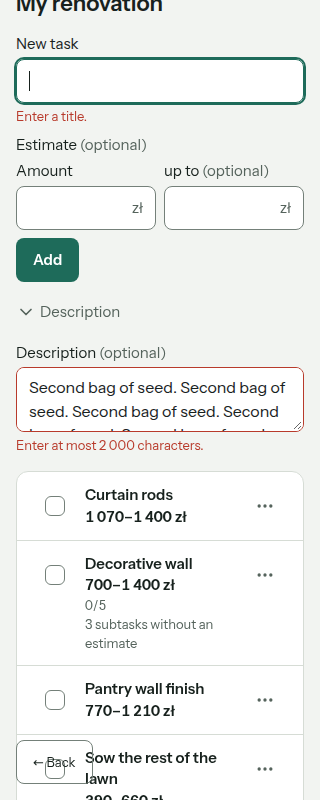
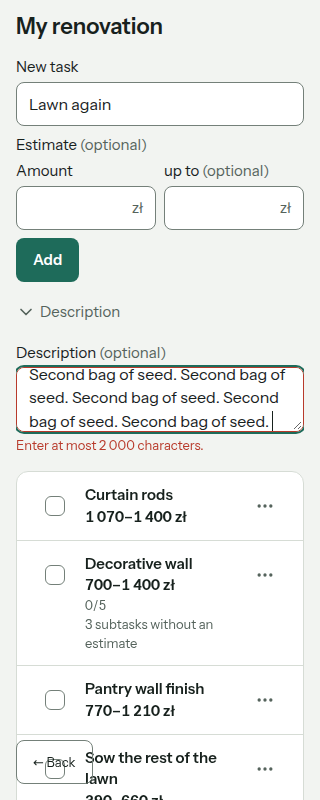
fix(prototype): use the sample validation, withdraw DS08
The design system's sample validation now checks the description limit
(PR #37), so the prototype's own check goes. DS08 (focus after a closed
description error) was a false alarm from setting the value by script
in the walk; withdrawn in the map and POSTEP.md, with a typed re-walk of
s04.33 and a corrected lesson.

diff --git a/prototypes/task-list-v1/src/screens/task-screen.tsx b/prototypes/task-list-v1/src/screens/task-screen.tsx
@@ -54,17 +54,6 @@ const titleOf = (list: TaskItem[], id: string): string => {
   return "";
 };
 
-/**
- * The design system's sample validation plus the spec's 2 000-character description limit
- * (`taskFields`), which the sample leaves out; s04.33 needs it to be reachable.
- */
-const validate = (values: TaskFormValues) => ({
-  ...validateTask(values),
-  ...(values.description.trim().length > 2000
-    ? { description: taskMessages.descriptionTooLong }
-    : {}),
-});
-
 /** The top-level task that holds subtask `id`, if it is one. */
 const parentOf = (list: TaskItem[], id: string) =>
   list.find((item) => item.subtasks?.some((subtask) => subtask.id === id));
@@ -454,7 +443,7 @@ export function TaskScreen({
             <>
               {phase === "page" ? null : (
                 <QuickAdd
-                  validate={validate}
+                  validate={validateTask}
                   onSubmit={(values) => add(null, values)}
                   text={emptyText}
                 />
@@ -466,7 +455,7 @@ export function TaskScreen({
                 tasks={forDisplay(account.tasks.map(rollUp))}
                 onRetry={() => void retryList()}
                 retrying={retrying}
-                validate={validate}
+                validate={validateTask}
                 onEdit={edit}
                 onAddSubtask={(parentId, values) => add(parentId, values)}
                 onDelete={remove}

diff --git a/prototypes/task-list-v1/POSTEP.md b/prototypes/task-list-v1/POSTEP.md
@@ -271,7 +271,7 @@ Krok 4 zadania z 2026-10-28 (log: `.ai/runs/2026-10-28-e01-subtask-rollup-alignm
   - pierwsze podzadanie zadania z wpisaną kwotą i usunięcie ostatniego podzadania wpisują komunikat do wiersza (s07.9, s07.10, s08.8); każda następna zmiana go czyści;
   - edycja zadania z podzadaniami zachowuje jego własną kwotę (R15);
   - P09 „zadanie dostało podzadanie w innej karcie”: 409 przy zapisie zmienionej kwoty, lista dostaje podzadanie „Bathroom” bez szacunku (s06.12);
-  - walidacja: próbka DS (`validateTask`) plus limit opisu 2000 znaków ze specyfikacji, bez którego s04.33 był nieosiągalny.
+  - walidacja: próbka DS (`validateTask`); brakował w niej limit opisu 2000 znaków ze specyfikacji, bez którego s04.33 był nieosiągalny, więc dopisałem go w DS (PR #37, `bbe676a`, z historią „Description Too Long”).
 - **Dane K2** (L23 = A): opisy uchwytu TV i szafki RTV bez „Not included in the wall estimate”, opis ściany „Living room. Without the sockets”. „Decorative wall” pokazuje 700–1 400 zł i „3 subtasks without an estimate”; wpisane 350–660 zł wraca po usunięciu podzadań.
 - **Przewodnik po stanach**: 18 nowych stanów; zastąpione (s04.7, s05.3, s06.7, s07.1, s07.4) są w liście wyłączone z dopiskiem „replaced by …”, wskazówki dawnych stanów mówią „Amount” i „up to”.
 - **Notatki ekranów** s04–s08: kryteria po przepisaniu #15 i #16.
@@ -290,12 +290,12 @@ Krok 4 zadania z 2026-10-28 (log: `.ai/runs/2026-10-28-e01-subtask-rollup-alignm
 | s06.12 | 1440, ciemny | kwota 900 i nowy tytuł → komunikat 409, „Sum of subtasks: no estimate yet”, tytuł zostaje; drugi zapis zapisuje tytuł, wiersz „No estimate” i „1 subtask without an estimate” | `/var/www/taskly/prototypes/task-list-v1/evidence/rollup-06-s06.12-1440-dark.png` |
 | s04.30 | 320, jasny | tytuł 288×44, „Amount” i „up to” obok siebie po 140×44, „Add” 63×44 pod nimi, „Description” niżej; bez poziomego przewijania (szerokość strony 320) | `/var/www/taskly/prototypes/task-list-v1/evidence/rollup-07-s04.30-320-light.png` |
 | s07.8 | 320, jasny | „New subtask”, kwoty, „Add”, „Description” i „Cancel”; bez poziomego przewijania | `/var/www/taskly/prototypes/task-list-v1/evidence/rollup-08-s07.8-320-light.png` |
-| s04.33 | 320, jasny | opis 2200 znaków, przełącznik zamknięty, Enter → przełącznik się otwiera, komunikat „Enter at most 2 000 characters.”; **fokus zostaje w tytule** (DS08) | `/var/www/taskly/prototypes/task-list-v1/evidence/rollup-09-s04.33-320-light.png` |
+| s04.33 | 320, jasny | opis 2200 znaków wpisany z klawiatury, przełącznik zamknięty, Enter w tytule → przełącznik się otwiera, komunikat „Enter at most 2 000 characters.”, fokus w opisie (także przy 1440 i przy „Add”) | `/var/www/taskly/prototypes/task-list-v1/evidence/rollup-09-s04.33-320-light.png` |
 
-### Luka w design systemie
+### DS08 wycofane
 
-- **DS08** — `QuickAdd` (i `TaskForm`): błąd opisu z walidacji w przeglądarce, przy zwiniętym „Description”, otwiera przełącznik, ale fokus zostaje w tytule zamiast w opisie (Chromium, agent-browser). Test jsdom tego samego przypadku przechodzi, a historia DS `ErrorInClosedDescription` sprawdza tylko błąd z serwera. Prawdopodobnie `useLayoutEffect` w `useForm` szuka pola w tym samym commicie, w którym `CollapsibleContent` (Radix `Presence`) jeszcze go nie zamontował. Do decyzji: poprawka w PR #37 z historią na ten przypadek.
+Pierwsze przejście s04.33 wstawiło opis skryptem (setter `value` i zdarzenie `input`) i pokazało fokus w tytule; zgłosiłem to jako lukę DS08. Właściciel przyjął poprawkę w PR #37. Przed poprawką historia „Description Too Long” w Storybooku (Chromium, klik „Add” i Enter) i powtórzone przejście z tekstem wpisanym z klawiatury (1440 i 320 px) pokazały fokus w opisie: design system działa, błąd wywołało wstawianie skryptem. Poprawki nie było; zostały historia i limit w próbce walidacji (`bbe676a`).
 
 ## Pytania otwarte
 
-- DS08 (wyżej): czy poprawić w PR #37.
+- brak

diff --git a/prototypes/konta-i-role/mapa-ekranow.md b/prototypes/konta-i-role/mapa-ekranow.md
@@ -109,9 +109,9 @@ Odświeżenie briefu z 2026-10-27 zastępuje R06–R08, D15 i D16: szacunek zada
 - **P09** dostaje wartość „zadanie dostało podzadanie w innej karcie” (409 przy zapisie kwoty zadania, s06.12). Pozostałe nowe stany są osiągalne kliknięciem przy P06 „potwierdza”; „odmawia” i „nie odpowiada” działają jak w s04.11, s06.4, s07.5, s08.5.
 - **Dane K2:** kwoty bez zmian (L20). Po R12 „Decorative wall” pokazuje sumę uchwytu TV i szafki RTV, 700–1 400 zł, a wpisane 350–660 zł jest zachowane i wraca po usunięciu wszystkich podzadań (s08.8). Opisy „Not included in the wall estimate” i „Without the TV cabinet, the TV mount…” przestały być prawdziwe (L23): uchwyt i szafka są bez opisu, a opis ściany to „Living room. Without the sockets”.
 - Kwoty z kryteriów wpisuje się na żywo: #16-AC2 (zadanie 1 000–2 000 zł, podzadania 300–400 zł i 500 zł → 800–900 zł), #15-AC6 (jedna kwota).
-- **Design system:** wszystko jest w `QuickAdd`, `TaskForm` (`summedEstimate`), `TaskRow` (`unestimatedSubtasks`, `notice`) i `EstimateRange` (PR #37). Przy budowie prototypu wyszła luka **DS08** (sekcja 5).
+- **Design system:** wszystko jest w `QuickAdd`, `TaskForm` (`summedEstimate`), `TaskRow` (`unestimatedSubtasks`, `notice`) i `EstimateRange` (PR #37). Luka DS08 zgłoszona przy budowie prototypu okazała się błędem przejścia i jest wycofana (sekcja 5).
 - **Poza prototypem** (należą do E03, nie do mapy E01): „Add estimate” wprost w wierszu (C5), lista zadań bez szacunku w przyszłych wydatkach (C4), „0 of 1 subtask done” (C7).
-- **Liczby rozszerzenia:** 18 nowych stanów (s04: 6, s05: 1, s06: 4, s07: 4, s08: 3), 6 zastąpionych (s04.8 tylko w części). Prototyp pokazuje **96** stanów (83 − 5 zastąpionych w całości + 18 nowych). Luki: 1 nowa w specyfikacji (L23), 1 w design systemie (DS08, znaleziona przy budowie).
+- **Liczby rozszerzenia:** 18 nowych stanów (s04: 6, s05: 1, s06: 4, s07: 4, s08: 3), 6 zastąpionych (s04.8 tylko w części). Prototyp pokazuje **96** stanów (83 − 5 zastąpionych w całości + 18 nowych). Luki: 1 nowa w specyfikacji (L23), 0 w design systemie (DS08 wycofana).
 
 ### Role i dostęp
 
@@ -253,7 +253,7 @@ Nie rozstrzygam ich. Przy każdej jest pytanie do właściciela produktu.
 - **DS05** — `TaskList` i `TaskRow` nie mają widoku tylko do odczytu (bez szybkiego dodawania i „…”) dla roli `viewer` (dotyczy, jeśli w L19 odpowiesz „tak”).
 - **DS06** — Polskie teksty komponentów istnieją tylko w storybookach (`Polish…`); nie ma jednego słownika do aplikacji (dotyczy, jeśli w L04 wybierzesz polski albo język z przeglądarki).
 - **DS07** — Nie ma komponentu ani wzorca dla stanu offline PWA (dotyczy, jeśli w L17 odpowiesz „tak”).
-- **DS08** (2026-10-28, z budowy prototypu) — Błąd opisu z walidacji w przeglądarce przy zwiniętym „Description” otwiera przełącznik, ale fokus zostaje w tytule zamiast w opisie (s04.33, Chromium). Szczegóły: `prototypes/task-list-v1/POSTEP.md`, „Rozszerzenie 2026-10-28”.
+- ~~**DS08**~~ (2026-10-28) — **wycofana.** Fokus po błędzie opisu przy zwiniętym „Description” (s04.33) trafia do opisu; zgłoszenie wzięło się z wstawiania tekstu skryptem w przejściu. Szczegóły: `prototypes/task-list-v1/POSTEP.md`, „DS08 wycofane”.
 
 ## 6. Liczby
 

diff --git a/.ai/runs/2026-10-28-e01-subtask-rollup-alignment.md b/.ai/runs/2026-10-28-e01-subtask-rollup-alignment.md
@@ -90,6 +90,11 @@ Bring spec E01, issues #15/#16, `backlog.md`, the design system (`packages/ui`) 
   - `README.md`, `POSTEP.md` (section "Rozszerzenie 2026-10-28" with the walk table).
 - agent-browser walk on the built prototype (screenshots in `prototypes/task-list-v1/evidence/rollup-01…09-*.png`, absolute paths in POSTEP.md): s04.34, s04.31, s04.32, s07.9, s08.8, s06.9, s06.12 at 1440 dark; s04.30, s07.8, s04.33 at 320 light. All as the map says, except focus in s04.33.
 - Found DS08: a client-side description error with the toggle closed opens it but leaves focus in the title in Chromium; a jsdom test of the same flow passes (temporary test, removed). Not fixed (prompt rule 8: no design-system changes from the prototype); asked the owner whether to fix it in PR #37.
+- Owner: "akceptuje wszystkie propozycje" (fix DS08 in PR #37; commit step 4 and open a stacked PR).
+  - Committed step 4 (`adaf3be`, after the rebase `70436ca`).
+  - DS08 on `feat/ui-estimate-rollup`: the new Storybook story "Description Too Long" (title, Description opened, 2 001 characters pasted, closed, Add or Enter) passed in Chromium before any fix. Re-walked the prototype with typed text at 1440 and 320 px: focus goes into the description. **DS08 was a false alarm**: the first walk set the textarea value from a script. Withdrawn in the map and POSTEP.md; the lesson recorded earlier was wrong and is replaced.
+  - Kept on PR #37 as regression coverage: the sample `validateTask` checks the spec's 2 000-character description limit, the story and its MDX row (`bbe676a`; gate: format, lint 0 errors, typecheck, `test:storybook` 918 pass, `build-storybook`).
+  - Prototype branch rebased on it; the prototype's local description check removed (the sample has it now); new s04.33 screenshot.
 
 ## Files changed
 
@@ -116,5 +121,5 @@ Bring spec E01, issues #15/#16, `backlog.md`, the design system (`packages/ui`) 
 - 2026-10-28: grep docs, TODOs and the design system for superseded rule ids.
 - 2026-10-28: design-system ids are a shared namespace (W1–W4 instead of Q/S).
 - 2026-10-28: a new field in quick add makes Storybook label queries ambiguous; scope them.
-- 2026-10-28: focus into a Radix collapsible can pass in jsdom and fail in Chromium.
+- 2026-10-28: type in agent-browser walks, do not set values by script (DS08 false alarm).
 - 2026-10-28: agent-browser at 320 px, the review engine's "← Back" button covers controls.

diff --git a/.ai/lessons.md b/.ai/lessons.md
@@ -14,7 +14,7 @@ Long-term memory for AI agents working on this project. Read this file **before 
 
 <!-- Format: - YYYY-MM-DD — Short summary → [details](lessons/YYYY-MM-DD-slug.md) -->
 
-- 2026-10-28 — Focus after a validation error can pass in jsdom and fail in Chromium when the field sits in a Radix `Collapsible` that opens in the same commit (`useLayoutEffect` runs before `Presence` mounts it). Check focus moves into collapsible content in a real browser (Storybook play test or agent-browser), not only in unit tests.
+- 2026-10-28 — In an agent-browser walk, type into fields with `keyboard type` / `inserttext`, never by setting `value` from a script: the scripted path showed focus in the wrong field and became a false design-system bug (DS08, withdrawn). Before reporting a component bug, reproduce it in a Storybook play test in Chromium.
 - 2026-10-28 — agent-browser on the review-engine prototypes at 320 px: the floating "← Back" button covers controls near the bottom edge and `click` refuses; `scrollIntoView({block: "center"})` the target first.
 - 2026-10-28 — Design-system ids are a shared namespace: before citing a new decision in Storybook, check the legend in Start here (Q1–Q5 are reference answers, S1–S8 are screens). Spec-local labels like "Q1"/"S2" clash; give DS decisions the next free POSTEP.md letter (W1–W4) and add it to both legends.
 - 2026-10-28 — Adding a field to quick add (amounts) makes every Storybook query by that label ambiguous on screens that also show an edit or estimate form; scope queries with `within(getByRole("form", { name }))` or the named list instead of renaming labels.

diff --git a/prototypes/task-list-v1/README.md b/prototypes/task-list-v1/README.md
@@ -77,7 +77,7 @@ Przełączniki jednorazowe (P09, „raz” w P05 i P07, „wygasa” w P04) same
 - **Logowanie i rejestracja** są symulowane: nie ma ciasteczka, Better Auth ani limitu prób liczonego w czasie (429 włącza P02 albo P03; czas oczekiwania w komunikacie jest stały, 8 s). Rejestracja nie wysyła maila.
 - **Przekierowania** serwera (gość na `/`, zalogowany na `/sign-in` i `/sign-up`, `/sign-up` przy zamkniętej rejestracji) są pokazane jako karta „Prototype · access gate” z przyciskami, nie jako prawdziwe przekierowanie.
 - **Suma podzadań** jest liczona w tej stronie (jak serwer przy odczycie); własna kwota zadania z podzadaniami jest trzymana i wraca po usunięciu ostatniego podzadania. Komunikaty o sumie pisze strona po potwierdzeniu, tak jak aplikacja. Podzadanie „z innej karty” (P09, s06.12) to „Bathroom” bez szacunku.
-- **Walidacja** to próbka design systemu plus limit opisu 2000 znaków ze specyfikacji.
+- **Walidacja** to próbka design systemu (`validateTask`), z limitem opisu 2000 znaków ze specyfikacji.
 - **Kolejność** zmienia się tylko w tej stronie; nie ma kolumny `position` ani indeksowania ułamkowego. Ukończone zadania są pokazywane na końcu tak jak w design systemie.
 - **Odpowiedzi serwera** pochodzą wyłącznie z przełączników; nie ma prawdziwych wyścigów między kartami ani aktualizacji na żywo (SSE).
 - **s05–s08** otwierają się same: prototyp klika tytuł, „Add subtask” albo „…” i pozycję menu tak jak osoba.
